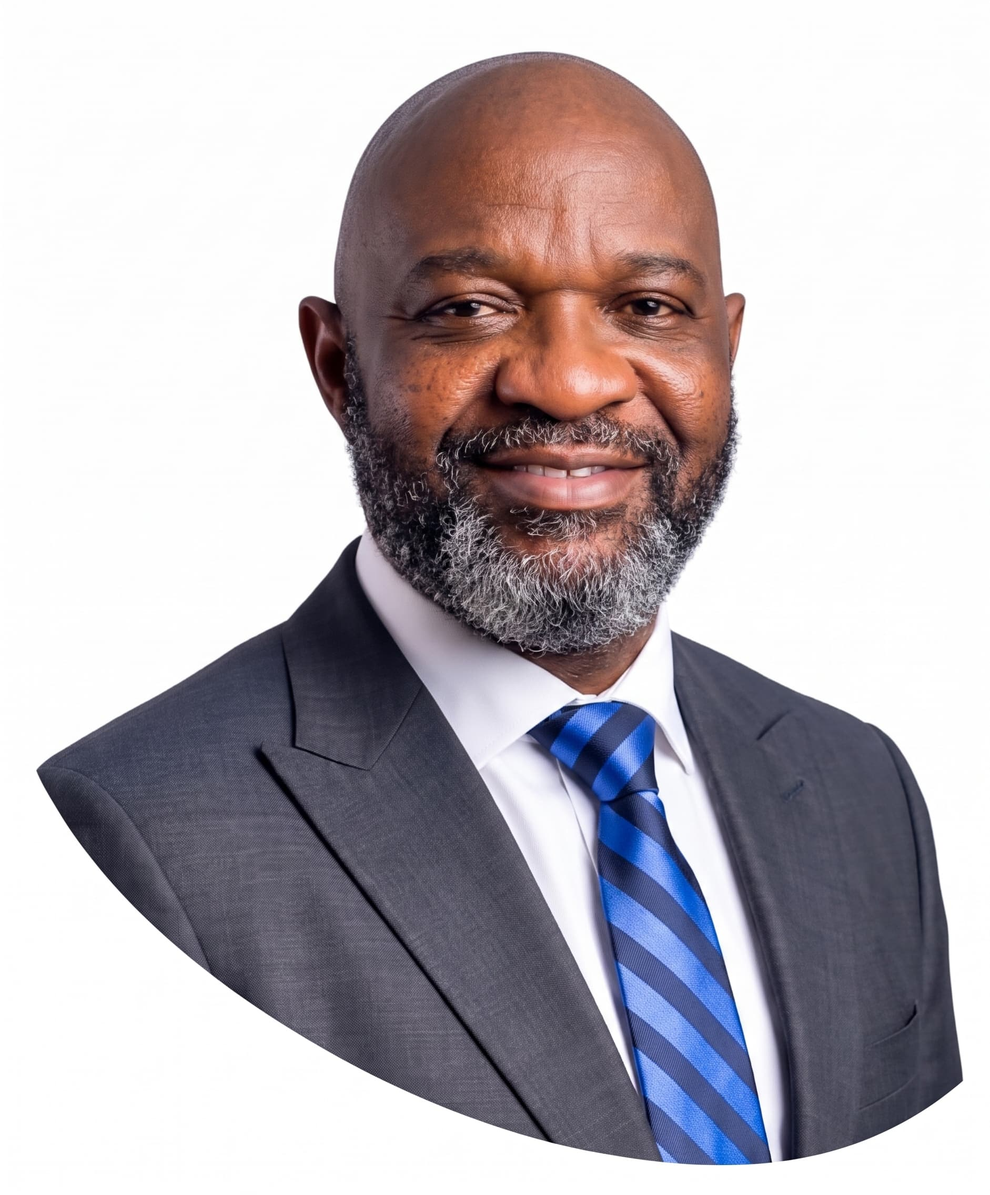
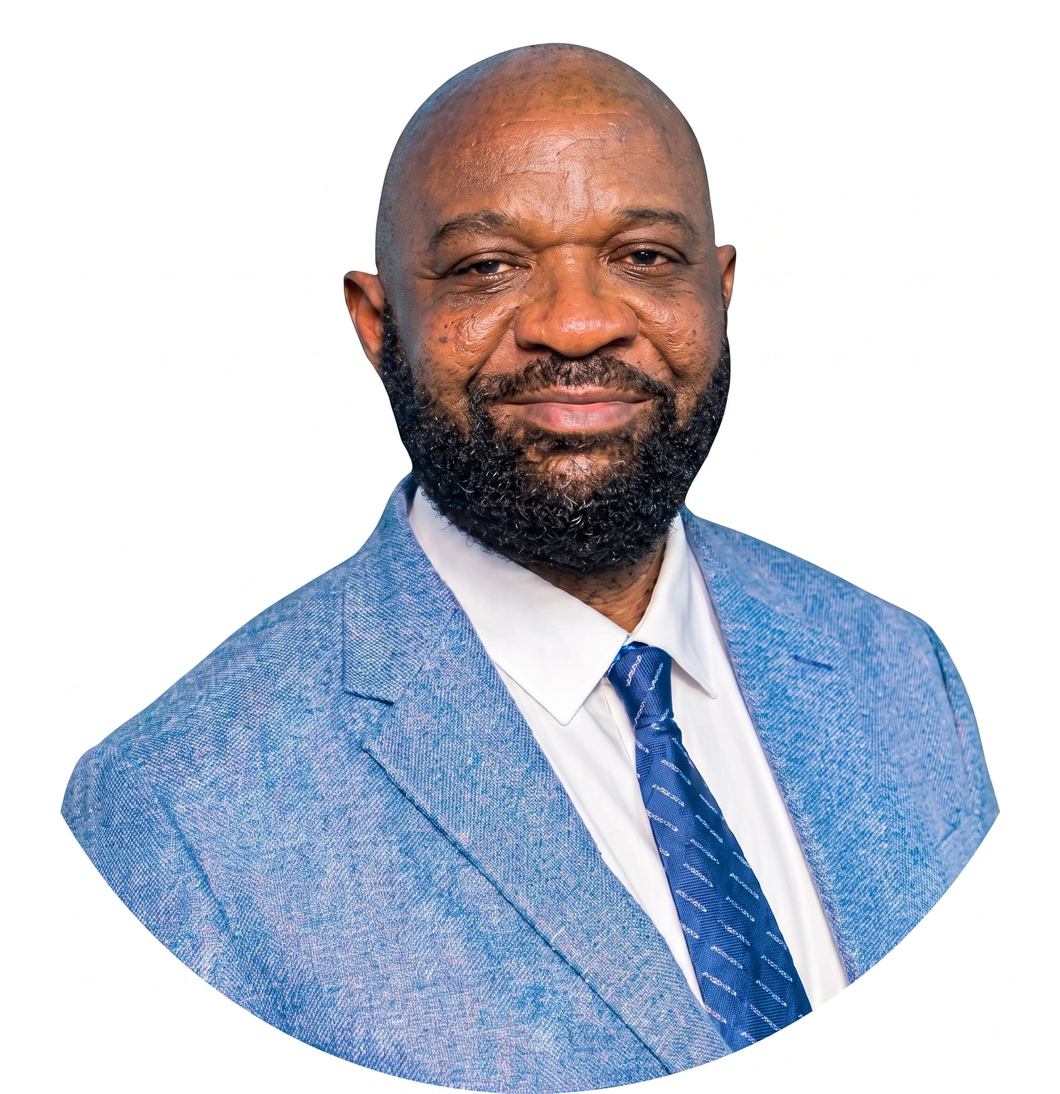
fix: fiexes elvis image

diff --git a/csr.html b/csr.html
@@ -309,13 +309,8 @@
 				border-radius: 18px;
 				overflow: hidden;
 				box-shadow: 0 12px 30px rgba(0, 90, 155, 0.08);
-				background-color: rgba(
-					0,
-					90,
-					155,
-					0.08
-				); /* Visible placeholder tint */
-				aspect-ratio: 16 / 10; /* Keeps all 4 images uniformly sized */
+				background-color: rgba(0, 90, 155, 0.08);
+				aspect-ratio: 16 / 10;
 			}
 
 			.csr-gallery__item img {

diff --git a/about.html b/about.html
@@ -455,6 +455,11 @@
 						<div class="team-card-v2__img-wrap">
 							<img
 								src="team/elvis.jpg"
+								style="
+									object-fit: contain;
+									height: 100%;
+									width: 100%;
+								"
 								alt="Elvis Chukwudi OKONJI"
 							/>
 						</div>
